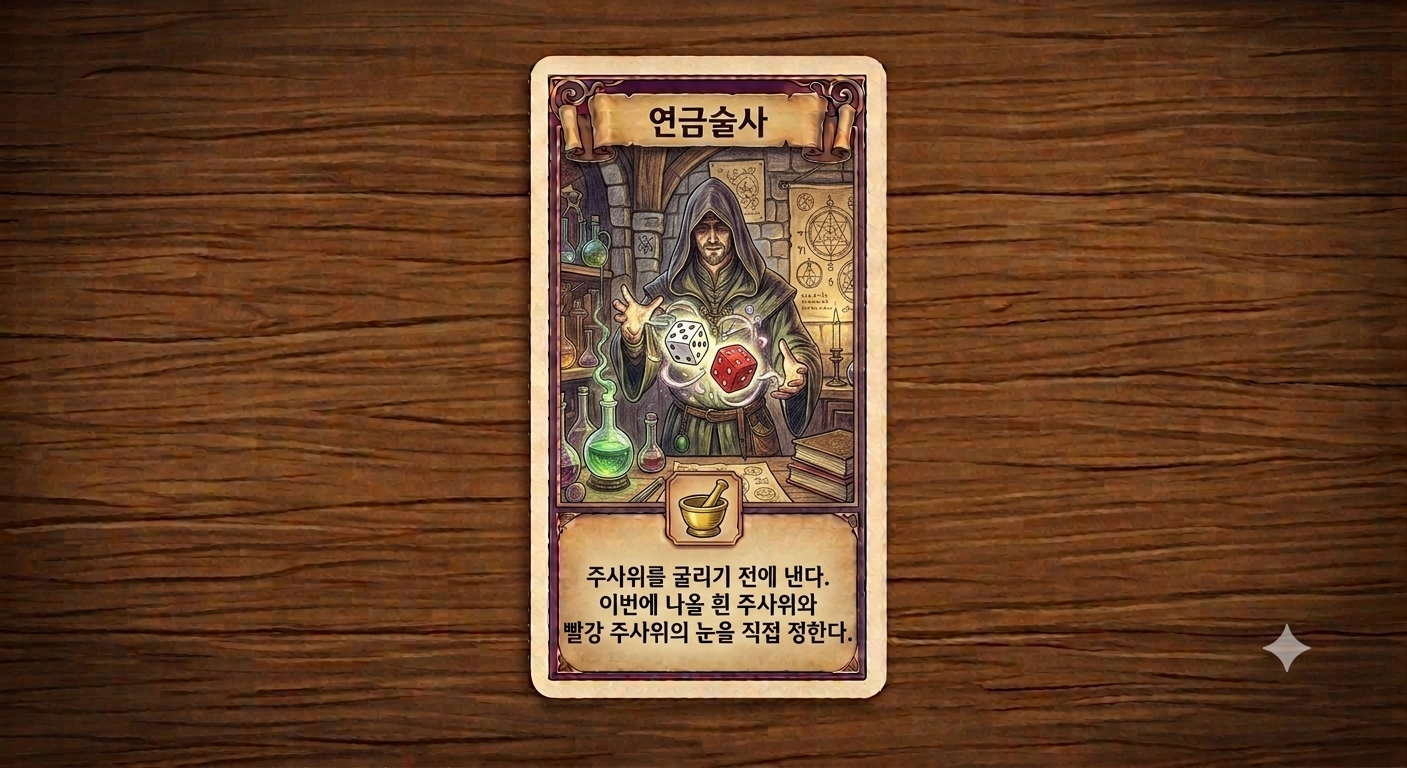
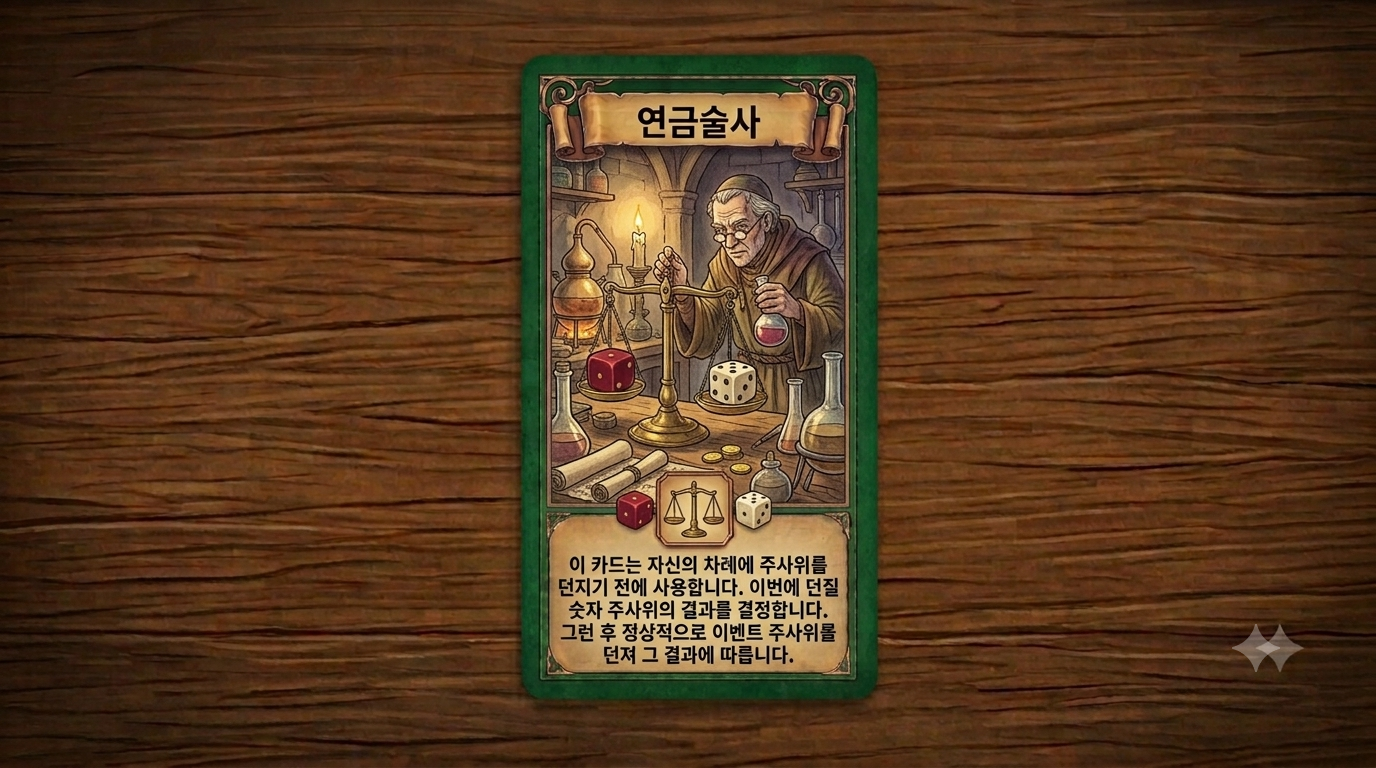
확장판 진보카드 그림 25종 반영 — 뽑으면 더미 색 뒷면에서 뒤집히고, 수호자·야만족 상륙도 그림으로

diff --git a/app.js b/app.js
@@ -522,58 +522,83 @@
 
     /* 도시와 기사 — 과학(초록) */
     alchemist:  { name: '연금술사', icon: '\uD83E\uDDEA', kind: '과학 진보카드', cls: 'k-sci',
+                  img: 'img/alchemist.webp', art: 'img/a-alchemist.webp',
                   desc: '주사위를 굴리기 전에 써서, 이번에 나올 흰·빨강 눈을 직접 정합니다.' },
     crane:      { name: '기중기', icon: '\uD83C\uDFD7\uFE0F', kind: '과학 진보카드', cls: 'k-sci',
+                  img: 'img/crane.webp', art: 'img/a-crane.webp',
                   desc: '이번 차례의 도시 개발 한 번을 상품 한 장 싸게 합니다.' },
     mining:     { name: '광산', icon: '\u26CF\uFE0F', kind: '과학 진보카드', cls: 'k-sci',
+                  img: 'img/mining.webp', art: 'img/a-mining.webp',
                   desc: '내 건물이 닿은 산 하나당 철 두 장을 캡니다.' },
     irrigation: { name: '관개 시설', icon: '\uD83D\uDCA7', kind: '과학 진보카드', cls: 'k-sci',
+                  img: 'img/irrigation.webp', art: 'img/a-irrigation.webp',
                   desc: '내 건물이 닿은 농지 하나당 밀 두 장을 거둡니다.' },
     printer:    { name: '인쇄소', icon: '\uD83D\uDDA8\uFE0F', kind: '과학 진보카드', cls: 'k-sci',
+                  img: 'img/printer.webp', art: 'img/a-printer.webp',
                   desc: '받는 즉시 공개하는 승점 카드 — 1점.' },
     inventor:   { name: '발명가', icon: '\uD83D\uDCA1', kind: '과학 진보카드', cls: 'k-sci',
+                  img: 'img/inventor.webp', art: 'img/a-inventor.webp',
                   desc: '숫자 칩 두 개의 자리를 맞바꿉니다. 2 · 12 · 6 · 8 은 손댈 수 없습니다.' },
     engineer:   { name: '기술자', icon: '\uD83E\uDDF1', kind: '과학 진보카드', cls: 'k-sci',
+                  img: 'img/engineer.webp', art: 'img/a-engineer.webp',
                   desc: '내 도시에 성벽 하나를 공짜로 쌓습니다. 손패 한도가 두 장 늘어납니다.' },
     medicine:   { name: '의료기술', icon: '\u2695\uFE0F', kind: '과학 진보카드', cls: 'k-sci',
+                  img: 'img/medicine.webp', art: 'img/a-medicine.webp',
                   desc: '철 두 장과 밀 한 장만으로 마을을 도시로 올립니다.' },
     smith:      { name: '제련술', icon: '\uD83D\uDD28', kind: '과학 진보카드', cls: 'k-sci',
+                  img: 'img/smith.webp', art: 'img/a-smith.webp',
                   desc: '내 기사 둘을 공짜로 한 등급씩 승급시킵니다.' },
     roadbuild:  { name: '도로 건설', icon: '\uD83D\uDEE4\uFE0F', kind: '과학 진보카드', cls: 'k-sci',
+                  img: 'img/roadbuild.webp', art: 'img/a-roadbuild.webp',
                   desc: '도로 두 개를 재료 없이 놓습니다.' },
 
     /* 도시와 기사 — 정치(파랑) */
     bishop:       { name: '주교', icon: '\u26EA', kind: '정치 진보카드', cls: 'k-pol',
+                  img: 'img/bishop.webp', art: 'img/a-bishop.webp',
                     desc: '도둑을 옮기고, 그 땅에 닿은 상대 모두에게서 한 장씩 가져옵니다.' },
     diplomat:     { name: '외교관', icon: '\uD83E\uDD1D', kind: '정치 진보카드', cls: 'k-pol',
+                  img: 'img/diplomat.webp', art: 'img/a-diplomat.webp',
                     desc: '끝이 열린 도로 하나를 없앱니다. 내 도로였다면 다른 곳에 다시 놓습니다.' },
     constitution: { name: '헌법', icon: '\uD83D\uDCDC', kind: '정치 진보카드', cls: 'k-pol',
+                  img: 'img/constitution.webp', art: 'img/a-constitution.webp',
                     desc: '받는 즉시 공개하는 승점 카드 — 1점.' },
     deserter:     { name: '변절자', icon: '\uD83C\uDFF3\uFE0F', kind: '정치 진보카드', cls: 'k-pol',
+                  img: 'img/deserter.webp', art: 'img/a-deserter.webp',
                     desc: '상대 기사 하나를 없애고, 같은 등급의 기사를 내 땅에 세웁니다.' },
     saboteur:     { name: '방해자', icon: '\uD83D\uDCA3', kind: '정치 진보카드', cls: 'k-pol',
+                  img: 'img/saboteur.webp', art: 'img/a-saboteur.webp',
                     desc: '나보다 점수가 높거나 같은 사람은 손패의 절반을 버립니다.' },
     spy:          { name: '첩자', icon: '\uD83D\uDD75\uFE0F', kind: '정치 진보카드', cls: 'k-pol',
+                  img: 'img/spy.webp', art: 'img/a-spy.webp',
                     desc: '한 사람의 진보카드를 들여다보고 그중 한 장을 가져옵니다.' },
     intrigue:     { name: '음모', icon: '\uD83C\uDF00', kind: '정치 진보카드', cls: 'k-pol',
+                  img: 'img/intrigue.webp', art: 'img/a-intrigue.webp',
                     desc: '내 도로가 닿은 자리에 선 상대 기사를 밀어냅니다.' },
     wedding:      { name: '결혼', icon: '\uD83D\uDC8D', kind: '정치 진보카드', cls: 'k-pol',
+                  img: 'img/wedding.webp', art: 'img/a-wedding.webp',
                     desc: '나보다 점수가 높은 사람마다 카드를 두 장씩 받습니다.' },
     warlord:      { name: '사령관', icon: '\uD83C\uDF96\uFE0F', kind: '정치 진보카드', cls: 'k-pol',
+                  img: 'img/warlord.webp', art: 'img/a-warlord.webp',
                     desc: '내 기사 전부가 곡식 없이 활동 상태가 됩니다.' },
 
     /* 도시와 기사 — 상업(노랑) */
     merchant: { name: '상인', icon: '\uD83C\uDFEA', kind: '상업 진보카드', cls: 'k-tra',
+                  img: 'img/merchant.webp', art: 'img/a-merchant.webp',
                 desc: '내 건물이 닿은 땅에 상인을 놓습니다. 그 자원을 2:1로 바꾸고 승점 1점.' },
     harbor:   { name: '무역항', icon: '\u2693', kind: '상업 진보카드', cls: 'k-tra',
+                  img: 'img/harbor.webp', art: 'img/a-harbor.webp',
                 desc: '상대마다 내 자원 한 장을 주고 상품 한 장을 받아 옵니다.' },
     fleet:    { name: '상선대', icon: '\u26F5', kind: '상업 진보카드', cls: 'k-tra',
+                  img: 'img/fleet.webp', art: 'img/a-fleet.webp',
                 desc: '이번 차례 동안 고른 것 하나를 2:1로 바꿉니다.' },
     trader:   { name: '전문 상인', icon: '\uD83D\uDCBC', kind: '상업 진보카드', cls: 'k-tra',
+                  img: 'img/trader.webp', art: 'img/a-trader.webp',
                 desc: '나보다 점수가 높은 사람의 손을 보고 두 장을 가져옵니다.' },
     commMono: { name: '상품 독점', icon: '\uD83C\uDFED', kind: '상업 진보카드', cls: 'k-tra',
+                  img: 'img/commMono.webp', art: 'img/a-commMono.webp',
                 desc: '상품 하나를 골라 모든 상대에게서 한 장씩 거둡니다.' },
     resMono:  { name: '자원 독점', icon: '\uD83D\uDCE6', kind: '상업 진보카드', cls: 'k-tra',
+                  img: 'img/resMono.webp', art: 'img/a-resMono.webp',
                 desc: '자원 하나를 골라 모든 상대에게서 두 장씩 거둡니다.' }
   };
   var CARD_BY_NAME = {};
@@ -601,6 +626,12 @@
     var bn = $('bigNews');
     if (bn && !bn.classList.contains('hidden')) {
       clearTimeout(App.bigTimer); bn.classList.add('hidden'); bn.classList.remove('out');
+    }
+    var backImg = $('crBackImg');
+    if (backImg) {
+      backImg.src = c.cls === 'k-sci' ? 'img/back-sci.webp'
+                  : c.cls === 'k-pol' ? 'img/back-pol.webp'
+                  : c.cls === 'k-tra' ? 'img/back-tra.webp' : 'img/back.webp';
     }
     var img = $('crImg'), hasImg = !!c.img;
     img.hidden = !hasImg;
@@ -870,7 +901,9 @@
     var bnCard = $('bnCard');
     if (bnCard) {
       var awardImg = text.indexOf('최장 교역로') >= 0 ? 'img/longestroad.webp'
-                   : text.indexOf('최강 기사단') >= 0 ? 'img/largestarmy.webp' : '';
+                   : text.indexOf('최강 기사단') >= 0 ? 'img/largestarmy.webp'
+                   : text.indexOf('수호자') >= 0 ? 'img/defender.webp'
+                   : text.indexOf('야만족 상륙') >= 0 ? 'img/barbarians.webp' : '';
       bnCard.hidden = !awardImg;
       if (awardImg) bnCard.src = awardImg;
     }
@@ -2063,6 +2096,12 @@
     if (isExt(v)) {
       (p.cardList || []).forEach(function (c) {
         var b = el('button', 'devchip trk-' + c.track, CK.CARD_NAME[c.type]);
+        var cart = CARD_INFO[c.type] && CARD_INFO[c.type].art;
+        if (cart) {
+          var cthumb = document.createElement('img');
+          cthumb.className = 'chipArt'; cthumb.src = cart; cthumb.alt = '';
+          b.insertBefore(cthumb, b.firstChild);
+        }
         b.title = cardTip(c.type) || (CK.TRACK_NAME[c.track] + ' 진보카드');
         b.onclick = function () { playProgressUI(c.type); };
         box.appendChild(b);

diff --git a/index.html b/index.html
@@ -12,7 +12,7 @@
 <link rel="preconnect" href="https://fonts.googleapis.com">
 <link rel="preconnect" href="https://fonts.gstatic.com" crossorigin>
 <link rel="stylesheet" href="https://fonts.googleapis.com/css2?family=Hahmlet:wght@400;500;600;700&family=Song+Myung&display=swap">
-<link rel="stylesheet" href="style.css?v=867f6dcd">
+<link rel="stylesheet" href="style.css?v=552aa514">
 </head>
 <body>
 
@@ -201,7 +201,7 @@
   <div id="cardReveal" class="cardReveal hidden">
     <div class="crWrap">
       <div class="crFlip" id="crFlip">
-        <div class="crSide crBack"><img src="img/back.webp" alt=""></div>
+        <div class="crSide crBack"><img id="crBackImg" src="img/back.webp" alt=""></div>
         <div class="crSide crCard">
           <img class="crImg" id="crImg" alt="" hidden>
           <span class="crKind" id="crKind"></span>
@@ -458,6 +458,6 @@
 <script src="ck.js?v=f8f09cff"></script>
 <script src="ck-ai.js?v=8d98a624"></script>
 <script src="net.js?v=46de61a8"></script>
-<script src="app.js?v=9931b739"></script>
+<script src="app.js?v=f1293589"></script>
 </body>
 </html>

diff --git a/style.css b/style.css
@@ -1283,8 +1283,8 @@ h1 { margin: 10px 0 0; font-size: 40px; letter-spacing: 0.02em; }
 .crImg[hidden] { display: none; }   /* display:block 이 hidden 을 덮어써 빈 자리가 생기던 것 */
 /* 최장 교역로 · 최강 기사단 — 실제 카드를 띄운다 */
 .bnCard {
-  display: block; width: min(340px, 76vw); height: auto; margin: 8px auto 0; border-radius: 10px;
-  box-shadow: 0 12px 26px rgba(0,0,0,0.45);
+  display: block; max-width: min(340px, 76vw); max-height: 40vh; width: auto; height: auto;
+  margin: 8px auto 0; border-radius: 10px; box-shadow: 0 12px 26px rgba(0,0,0,0.45);
 }
 /* 손패 칩에 붙는 카드 그림 조각 */
 .chipArt {
